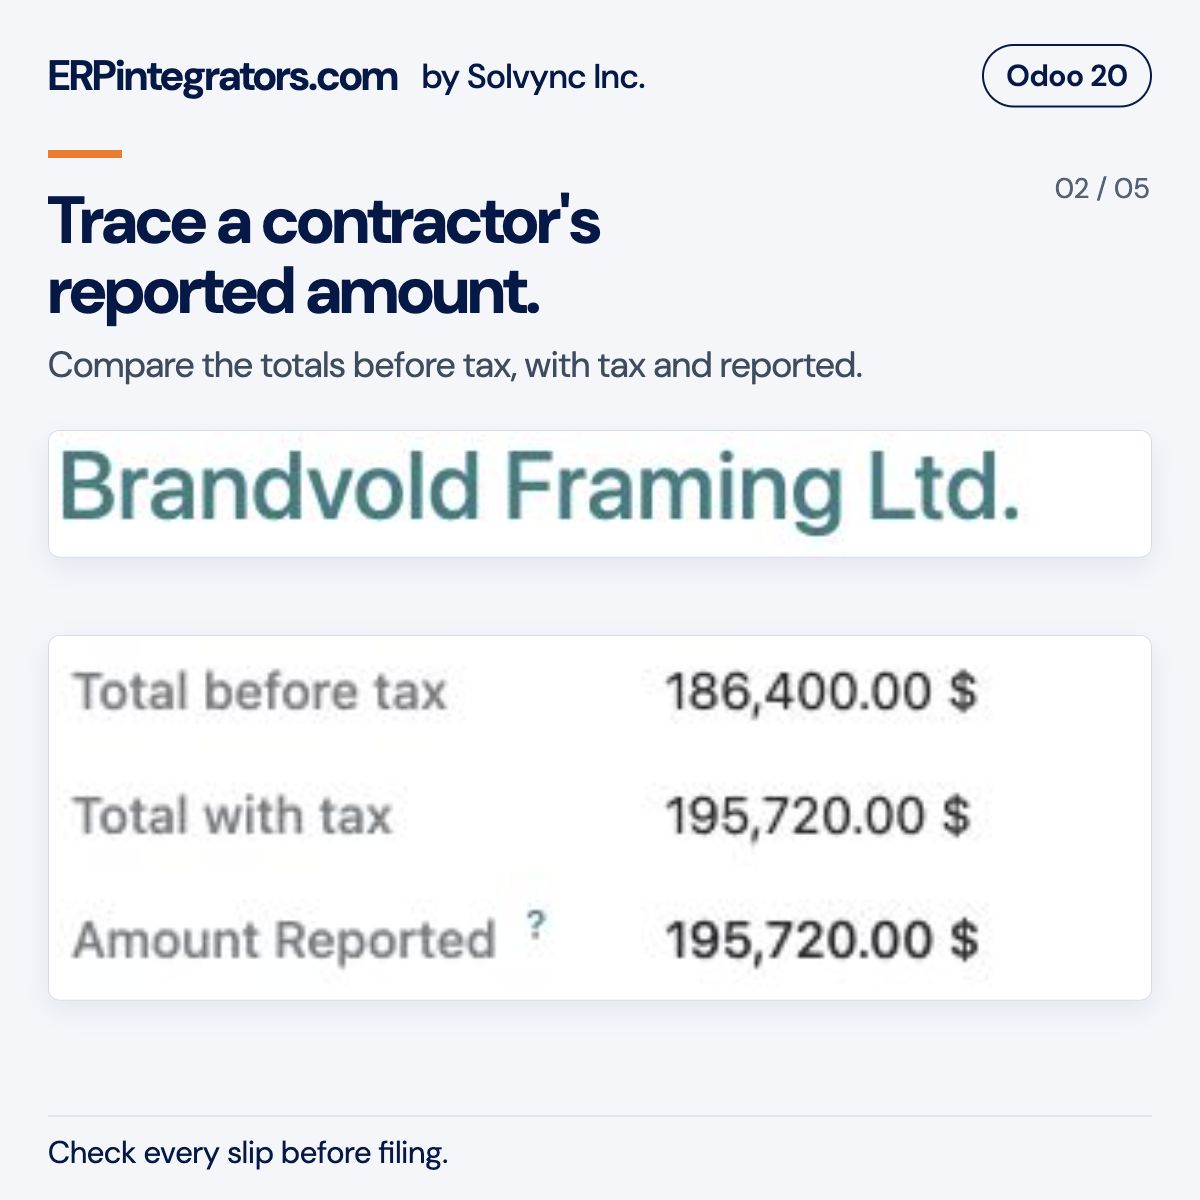
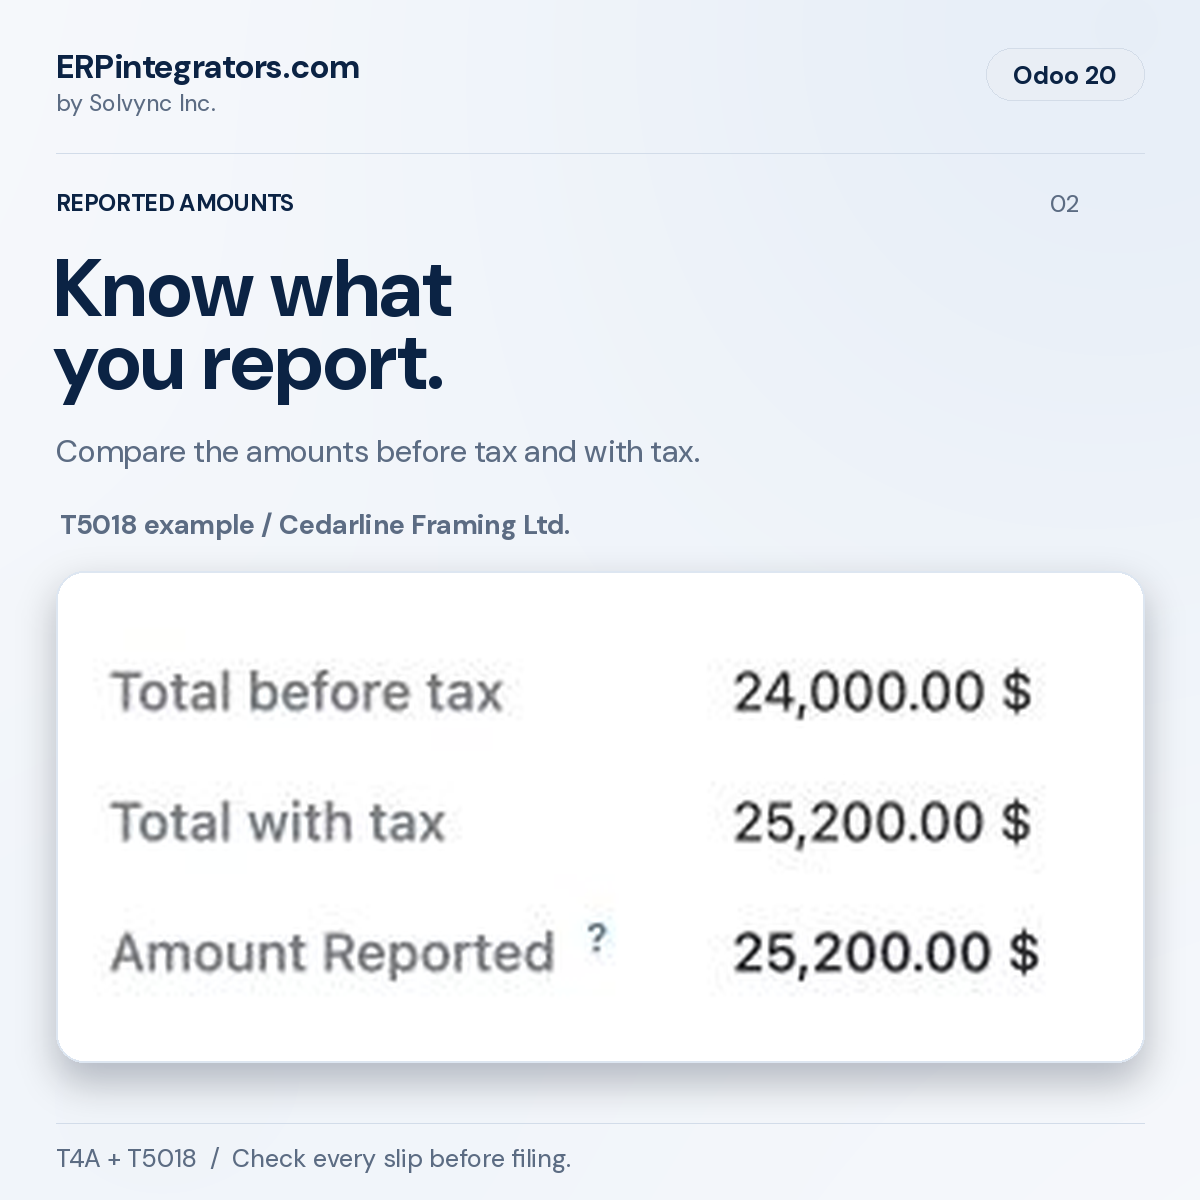
Publish modern workflow cards and version-specific walkthrough

diff --git a/l10n_ca_contractor_slips/static/description/index.html b/l10n_ca_contractor_slips/static/description/index.html
@@ -2,7 +2,7 @@
 <h1 itemprop="name" id="t4a-and-t5018-slips">T4A and T5018 Slips</h1>
 <section class="mb-4">
 <h2>Release details</h2>
-<p>Version <span itemprop="softwareVersion">20.0.1.2</span>, stable release.</p>
+<p>Version <span itemprop="softwareVersion">20.0.1.3</span>, stable release.</p>
 <p itemprop="softwareRequirements">Requires Odoo 20 Community or Enterprise, on Odoo.sh or your own server. Odoo Online is not supported.</p>
 <p><span itemprop="offers" itemscope="" itemtype="https://schema.org/Offer">Module price: US$<span itemprop="price">199</span> <span itemprop="priceCurrency">USD</span>.</span> Hosting, Odoo subscriptions and separately agreed services are excluded.</p>
 <p>Published by ERPintegrators.com, by <span itemprop="publisher" itemscope="" itemtype="https://schema.org/Organization"><span itemprop="name">Solvync Inc.</span></span>. Check every slip against your records before filing.</p>
@@ -57,28 +57,38 @@ module downloads CRA's public XML schemas from canada.ca the first time
 you finalize a return.</p>
 <h2 id="review-the-contractor-reporting-workflow">Review the contractor
 reporting workflow</h2>
-<p>These screens show a staged T5018 return in Odoo 20 Enterprise.
-Names, amounts and records are demo data. The module also supports T4A
-box 048. Each image focuses on one part of the workflow; the accounting
-and filing limits below apply to both editions.</p>
+<p>These screens show fictional T5018 records in Odoo 20 Community. The
+closed 2025 calendar return has three slips totalling CAD34,650. The
+example uses the 2026 XML submission format. The accounting and filing
+limits below apply to both Community and Enterprise.</p>
 <div class="row">
 <div class="col-12 col-lg-6 mb-4">
-<img class="img-fluid" width="1200" height="1200" src="screenshots/01-reporting-period.png" alt="T5018 return in Odoo showing the reporting period, ten slips and a total reported of 778,869 Canadian dollars" />
+<img class="img-fluid" width="1200" height="1200" src="screenshots/01-reporting-period.png" alt="T5018 return in Odoo 20 showing the closed 2025 calendar period, three slips and CAD34,650 reported" />
 </div>
 <div class="col-12 col-lg-6 mb-4">
-<img class="img-fluid" width="1200" height="1200" src="screenshots/02-reported-amount.png" alt="A contractor's T5018 slip showing 186,400 dollars before tax and 195,720 dollars reported with tax" />
+<img class="img-fluid" width="1200" height="1200" src="screenshots/02-reported-amount.png" alt="T5018 example: Cedarline Framing Ltd., CAD24,000 before tax and CAD25,200 reported with tax" />
 </div>
 <div class="col-12 col-lg-6 mb-4">
-<img class="img-fluid" width="1200" height="1200" src="screenshots/03-payment-trace.png" alt="The payment trace on an Odoo contractor slip, with four paid dates and the vendor bills each payment settled" />
+<img class="img-fluid" width="1200" height="1200" src="screenshots/03-payment-trace.png" alt="Two dated matched vendor bills supporting Cedarline Framing Ltd. T5018 payments" />
 </div>
 <div class="col-12 col-lg-6 mb-4">
-<img class="img-fluid" width="1200" height="1200" src="screenshots/04-cra-xml.png" alt="A finalized T5018 return with Download CRA file and its generated XML attachment, prepared for the buyer to upload" />
+<img class="img-fluid" width="1200" height="1200" src="screenshots/04-cra-xml.png" alt="Finalized T5018 return with Download CRA file, ready for review and separate upload to CRA" />
 </div>
 <div class="col-12 col-lg-6 mb-4">
-<img class="img-fluid" width="1200" height="1200" src="screenshots/05-recipient-portal.png" alt="The contractor portal listing a T5018 for 2026, the recipient's amount and a PDF download link" />
+<img class="img-fluid" width="1200" height="1200" src="screenshots/05-recipient-portal.png" alt="Recipient portal showing the contractor's own 2025 T5018 slip, CAD25,200 reported and a PDF download" />
 </div>
 </div>
 
+<h3 id="watch-the-workflow-in-odoo-20">Watch the workflow in Odoo
+20</h3>
+<img class="img-fluid" width="720" height="450" src="t4a-t5018-odoo-20-walkthrough.gif" alt="Odoo 20 T5018 walkthrough: calculate three slips, inspect the amount and payment trace, finalize and download the CRA XML file" />
+
+<p>This 16-second walkthrough uses a camera and cursor over reproduced
+Odoo screens. Calculate slips, review the contractor's amount and
+matched bills, finalize, then download the CRA file. Review the file and
+upload it to CRA separately using your own authorized account.
+Downloading the XML does not file the return or establish CRA
+acceptance.</p>
 <h2 id="questions-about-t4a-and-t5018-in-odoo">Questions about T4A and
 T5018 in Odoo</h2>
 <h3 id="which-t4a-slips-does-this-module-prepare">Which T4A slips does

diff --git a/l10n_ca_contractor_slips/__manifest__.py b/l10n_ca_contractor_slips/__manifest__.py
@@ -3,7 +3,7 @@
 {
     "name": "T4A and T5018 Slips",
     "summary": "T4A box 048 and T5018 contractor tax slips for Odoo, with payment traces, CRA XML and recipient PDFs",
-    "version": "20.0.1.2",
+    "version": "20.0.1.3",
     "category": "Accounting/Localizations/Reporting",
     "author": "ERPintegrators.com (Solvync Inc.)",
     "website": "https://erpintegrators.com",

diff --git a/l10n_ca_contractor_slips/readme/SCREENS.md b/l10n_ca_contractor_slips/readme/SCREENS.md
@@ -1,26 +1,35 @@
 ## Review the contractor reporting workflow
 
-These screens show a staged T5018 return in Odoo 20 Enterprise. Names, amounts and records
-are demo data. The module also supports T4A box 048. Each image focuses on one part of the
-workflow; the accounting and filing limits below apply to both editions.
+These screens show fictional T5018 records in Odoo 20 Community. The closed 2025 calendar
+return has three slips totalling CAD34,650. The example uses the 2026 XML submission format.
+The accounting and filing limits below apply to both Community and Enterprise.
 
 <div class="row">
 <div class="col-12 col-lg-6 mb-4">
-<img width="1200" height="1200" src="screenshots/01-reporting-period.png" alt="T5018 return in Odoo showing the reporting period, ten slips and a total reported of 778,869 Canadian dollars" />
+<img width="1200" height="1200" src="screenshots/01-reporting-period.png" alt="T5018 return in Odoo 20 showing the closed 2025 calendar period, three slips and CAD34,650 reported" />
 </div>
 <div class="col-12 col-lg-6 mb-4">
-<img width="1200" height="1200" src="screenshots/02-reported-amount.png" alt="A contractor's T5018 slip showing 186,400 dollars before tax and 195,720 dollars reported with tax" />
+<img width="1200" height="1200" src="screenshots/02-reported-amount.png" alt="T5018 example: Cedarline Framing Ltd., CAD24,000 before tax and CAD25,200 reported with tax" />
 </div>
 <div class="col-12 col-lg-6 mb-4">
-<img width="1200" height="1200" src="screenshots/03-payment-trace.png" alt="The payment trace on an Odoo contractor slip, with four paid dates and the vendor bills each payment settled" />
+<img width="1200" height="1200" src="screenshots/03-payment-trace.png" alt="Two dated matched vendor bills supporting Cedarline Framing Ltd. T5018 payments" />
 </div>
 <div class="col-12 col-lg-6 mb-4">
-<img width="1200" height="1200" src="screenshots/04-cra-xml.png" alt="A finalized T5018 return with Download CRA file and its generated XML attachment, prepared for the buyer to upload" />
+<img width="1200" height="1200" src="screenshots/04-cra-xml.png" alt="Finalized T5018 return with Download CRA file, ready for review and separate upload to CRA" />
 </div>
 <div class="col-12 col-lg-6 mb-4">
-<img width="1200" height="1200" src="screenshots/05-recipient-portal.png" alt="The contractor portal listing a T5018 for 2026, the recipient's amount and a PDF download link" />
+<img width="1200" height="1200" src="screenshots/05-recipient-portal.png" alt="Recipient portal showing the contractor's own 2025 T5018 slip, CAD25,200 reported and a PDF download" />
 </div>
 </div>
+
+### Watch the workflow in Odoo 20
+
+<img width="720" height="450" src="t4a-t5018-odoo-20-walkthrough.gif" alt="Odoo 20 T5018 walkthrough: calculate three slips, inspect the amount and payment trace, finalize and download the CRA XML file" />
+
+This 16-second walkthrough uses a camera and cursor over reproduced Odoo screens. Calculate
+slips, review the contractor's amount and matched bills, finalize, then download the CRA file.
+Review the file and upload it to CRA separately using your own authorized account. Downloading
+the XML does not file the return or establish CRA acceptance.
 
 ## Questions about T4A and T5018 in Odoo
 
